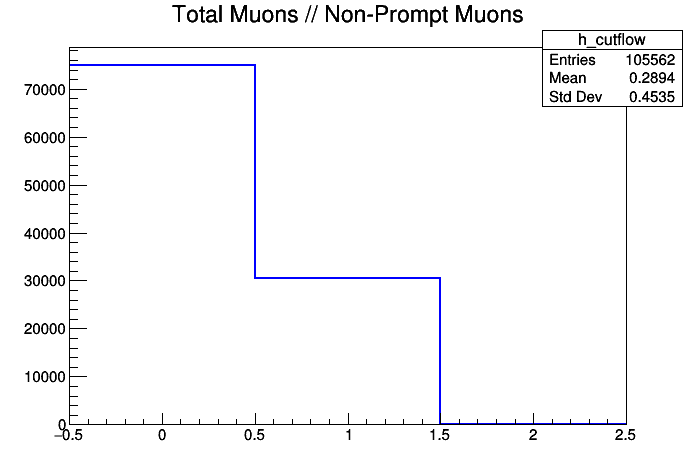
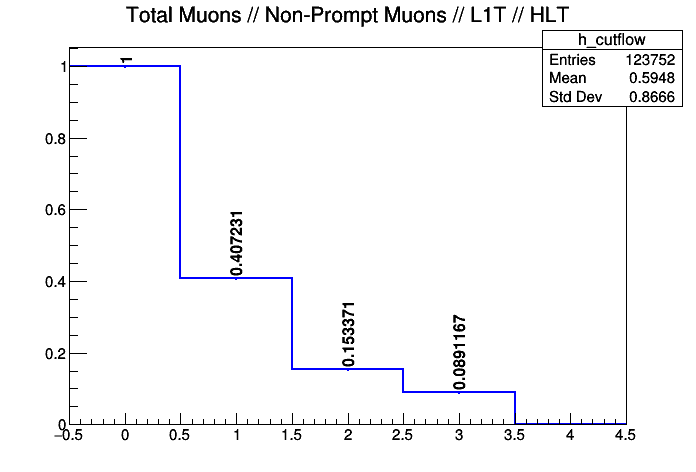
Added more cuts and improved cutflow display

diff --git a/snek.py b/snek.py
@@ -28,11 +28,11 @@ class histo:                    ## Define our histo object, to keep all these pr
     def cfill(s, var, weight=1):          ## Shorthand to allow for cleaner binning with no worry of overflow bins
         s.h.Fill(min(max(var, s.bounds[1]+0.01), s.bounds[2]-0.01), weight)
 
-    def saveplot(s, canvas, savedir, color=R.kBlue, width=2, suffix='.png'): ## Takes care of saving the plot
+    def saveplot(s, canvas, savedir, drawop='', color=R.kBlue, width=2, suffix='.png'): ## Takes care of saving the plot
         s.h.SetLineWidth(width)
         s.h.SetLineColor(color)
         s.h.Write()
-        s.h.Draw()
+        s.h.Draw(drawop)
         canvas.SaveAs(savedir+s.name+suffix)
 
 def main(batch=0):
@@ -87,7 +87,7 @@ def main(batch=0):
         "h_mu_pt": histo('h_mu_pt', 'Muon pT;pT (GeV);Events', mu_pt_bins),
         "h_mu_pt_eta": histo('h_mu_pt_eta', 'Muon pT (|eta| < 1.5);pT (GeV);Events', mu_pt_bins),
         "h_met": histo('h_met', 'MET;Missing Transverse Energy (Gev);Events; ', [200,0,200]),
-        "h_cutflow": histo('h_cutflow', 'Total Muons // Non-Prompt Muons', [3,-0.5,2.5])
+        "h_cutflow": histo('h_cutflow', 'Total Muons // Non-Prompt Muons // L1T // HLT', [5,-0.5,4.5])
     }
 
 #############
@@ -158,12 +158,16 @@ def main(batch=0):
 
             ## Loop over RECO muons
             goodMu = []
+            promptCut=False
+            L1TCut=False
+            HLTCut=False
             for iMu in range(nMuons):
 
                 ## Get variable quantities out of the tree
                 mu_pt = ch.Muon_pt[iMu]
                 mu_eta = ch.Muon_eta[iMu]
                 mu_phi = ch.Muon_phi[iMu]
+                mu_sip = ch.Muon_sip3d[iMu]
 
                 badMu = False
                 ## Check if the muon is a match for any GEN muons from W, Z, or A decays
@@ -174,10 +178,24 @@ def main(batch=0):
                         ) and ((abs(mu_phi - muPhi[i]) < 0.1) or (abs(mu_phi - muPhi[i]) > 6.23)):
                         badMu = True        ## This muon comes from something we're not interested in
                         break
-                
-                if badMu: continue          ## Skip to the next muon that might actually be of interest
+                if badMu:
+                    continue        ## Skip to the next muon if this one isn't wanted
+                else:
+                    promptCut = True  ## Otherwise, mark that the cut passed
 
-                goodMu.append(iMu)          ## This muon might come from a A->bb decay. Save it
+                ## L1Trigger cut based on L1_SingleMu6er1p5
+                if (abs(mu_eta) > 1.5) or (abs(mu_pt) < 6.0):
+                    badMu = True
+                    continue
+                L1TCut = True
+
+                ## HLT cut based on HLT_Mu7_IP4
+                if (abs(mu_pt) < 7.0) or (mu_sip < 4):
+                    badMu = True
+                    continue
+                HLTCut = True
+
+                goodMu.append(iMu)          ## This muon passes all of our cuts, so we save it
 
                 if VERBOSE: print '  * Muon_pt[%d] = %.2f GeV' % (iMu, mu_pt)
 
@@ -188,8 +206,13 @@ def main(batch=0):
                 if abs(ch.Muon_eta[iMu]) < 1.5:
                     plots["h_mu_pt_eta"].cfill(mu_pt)                
 
-            if len(goodMu) > 0:             ## We have useful muons in this event
+            ## Fill cut flow plots based on what was passed (order matters)
+            if promptCut:
                 plots["h_cutflow"].cfill(1) 
+            if L1TCut:
+                plots["h_cutflow"].cfill(2)
+            if HLTCut:
+                plots["h_cutflow"].cfill(3) 
 
             ## End loop over RECO muons pairs (iMu)
             
@@ -198,22 +221,34 @@ def main(batch=0):
 
     print '\nOut of %d total events processed, %d passed selection cuts' % (iEvt+1, nPass)
 
+#######################
+## Histogram formatting
+#######################
+
+    plots["h_cutflow"].h.Scale(1.0/plots["h_cutflow"].h.GetBinContent(1))
+    plots["h_cutflow"].h.SetMarkerSize(1.8)
+
 ######################
 ## Save the histograms
 ######################
 
     out_file.cd()
 
+    canvY = R.TCanvas('canvY')
+    canvY.cd()
+    R.gPad.SetLogy()
     canv = R.TCanvas('canv')
-    canv.cd()
+
 
     ## Example of plotting something that needs specific settings
-    #hist = plots["key"].pop()
-    #hist.saveplot(args)
+    canv.cd()
+    hist = plots.pop("h_cutflow")
+    hist.saveplot(canv, png_dir, drawop="htext")
 
     ## Generic plotting loop, for your histos that don't have anything special    
+    canvY.cd()
     for i in plots:
-        plots[i].saveplot(canv, png_dir)
+        plots[i].saveplot(canvY, png_dir)
 
     del out_file
 
